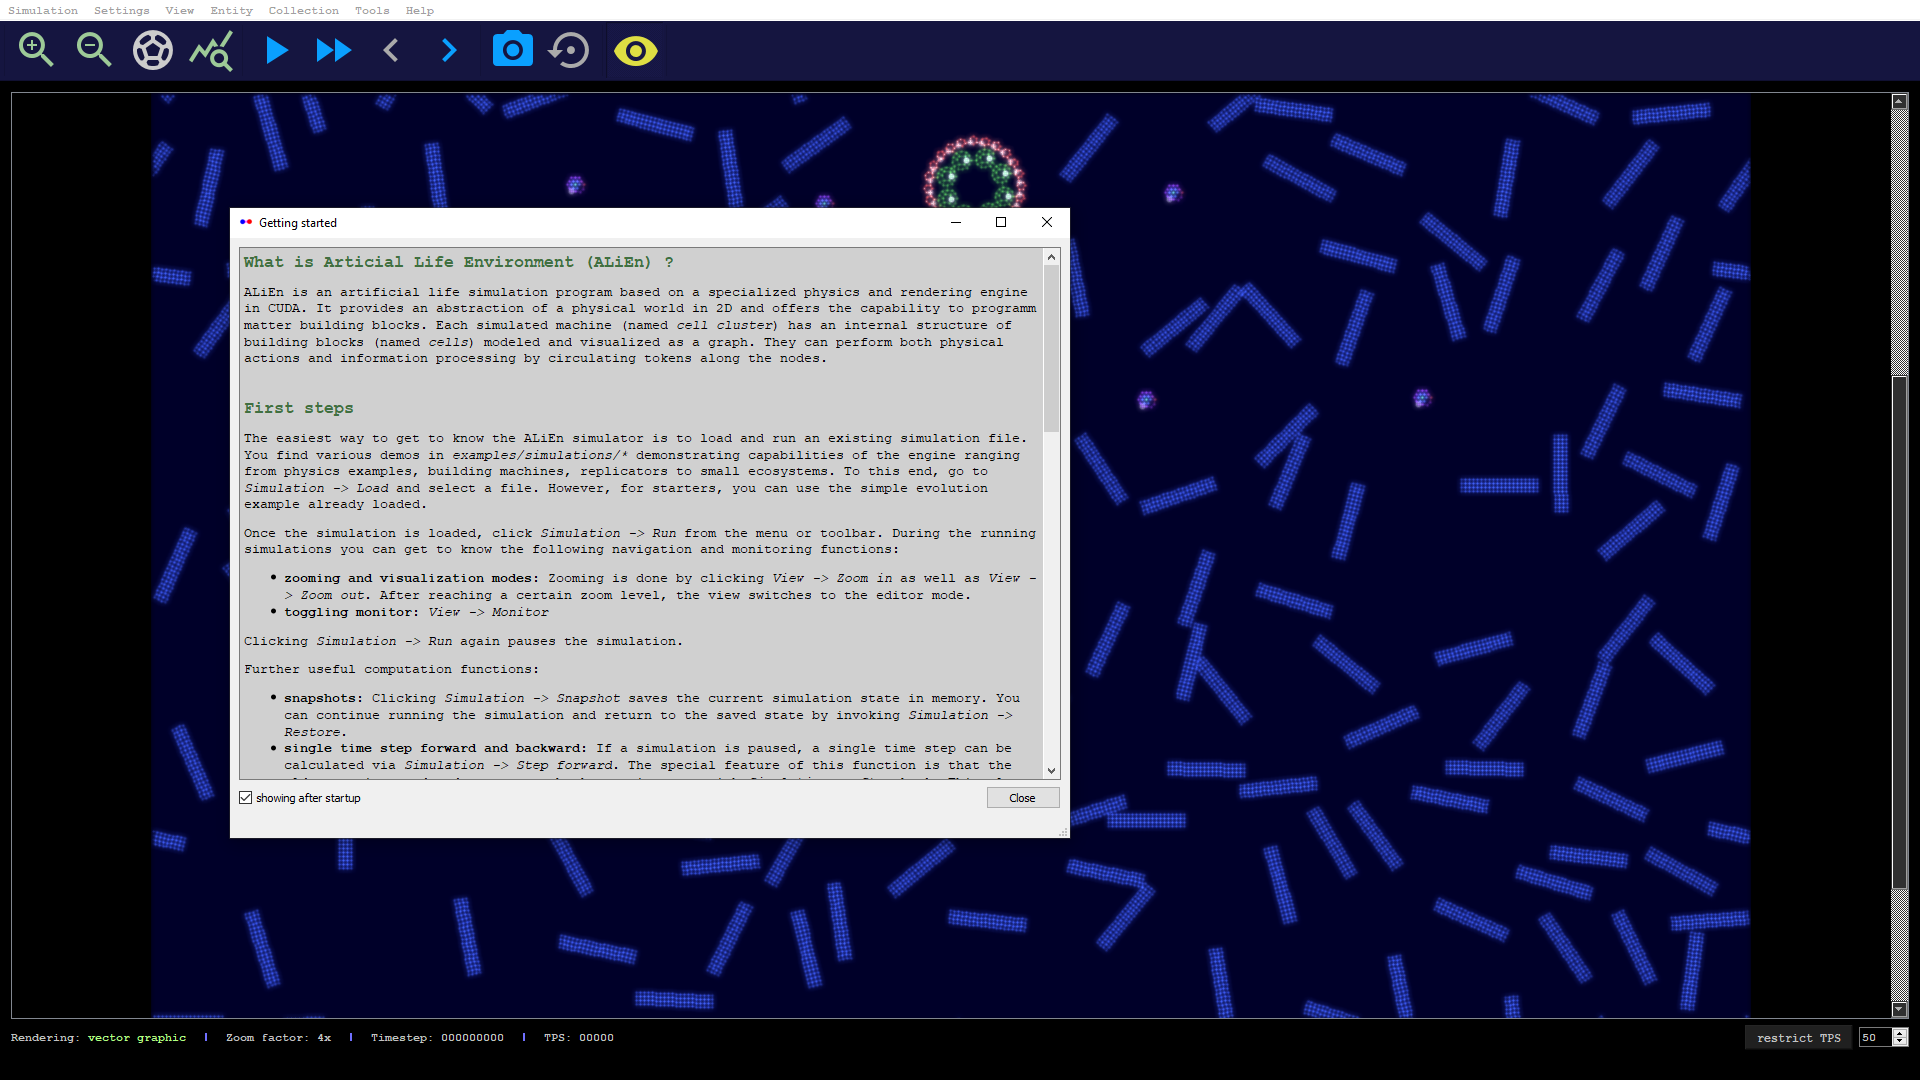
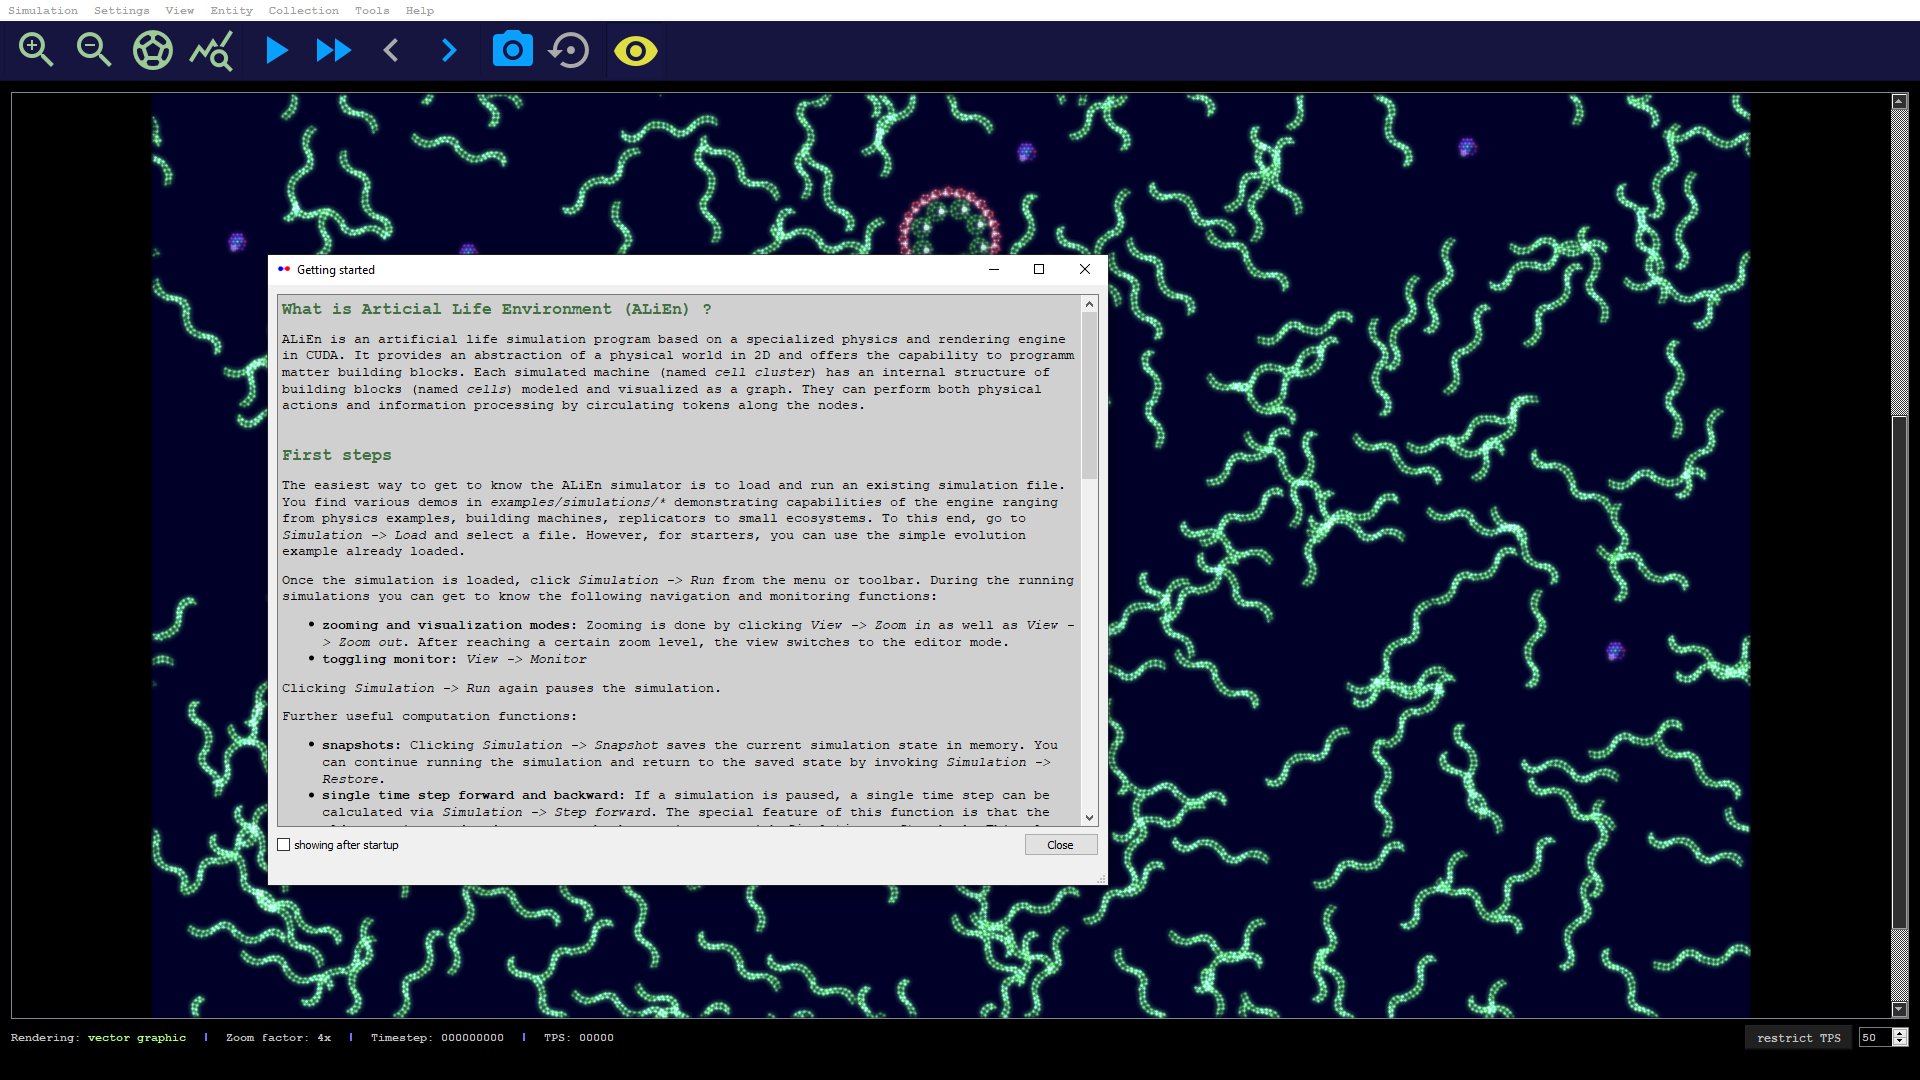
+ startup example changed + release-notes and screenshot updated

diff --git a/release-notes.md b/release-notes.md
@@ -1,10 +1,11 @@
 # Release notes
 
-## [2.2.0] - 2021-02-01
+## [2.2.0] - 2021-02-03
 ### Added
 - vector graphic view mode is active from zoom level 4 onwards
 - startup screen shows version
 - validation of values in "General settings" and "New simulation" dialog
+- examples (simulation and collections)
 
 ### Changed
 - info banner shows rendering mode
